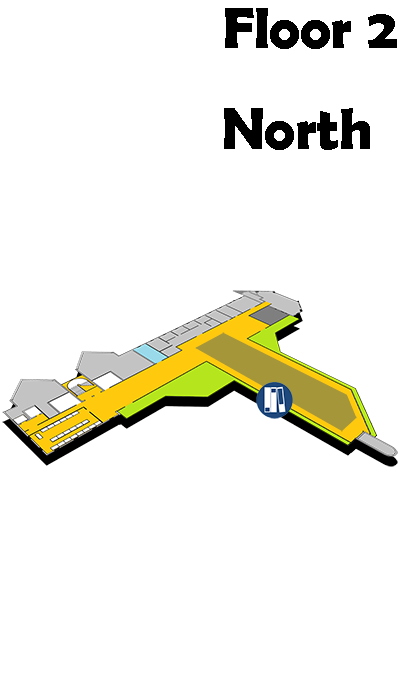
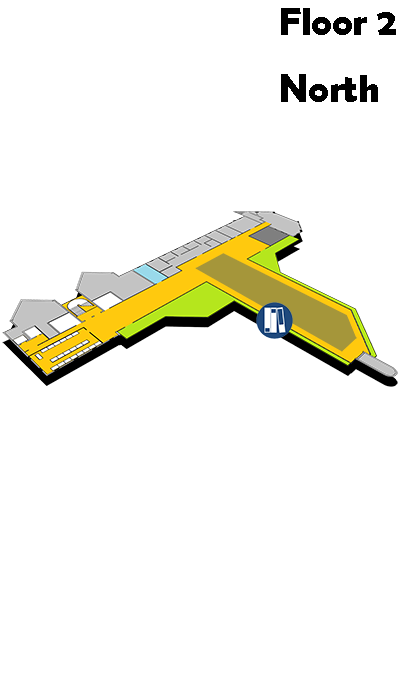
Task evacuation plan update floor images' positon and title scale (make room) design evacuation plan images for all 3 floors and direction. remove go "through all" arrows, these are hidden to use as front end testing. instead, creat evacuation on/off switch. link switch function to home button. pres

Changed region(s): [[0.0, 0.3, 1.0, 0.69], [0.54, 0.0, 0.99, 0.24]]

diff --git a/js/js.js b/js/js.js
@@ -13,6 +13,7 @@ function showHome() {
   hideArwR.style.display = "none";
   var hideArwL = document.getElementById("hideArwL")
   hideArwL.style.display = "none";
+  evacswitchoff()
 }
 
 // Go through all floors
@@ -66,10 +67,28 @@ function mouseOut() {
 // evacuation plan switch on and off button version
 function evacswitchon() {
     document.getElementById("floor1Img").src = "images/evac1L.png";
+    document.getElementById("floor1ImgR").src = "images/evac1R.png";
+    document.getElementById("floor2Img").src = "images/evac2L.png";
+    document.getElementById("floor2ImgR").src = "images/evac2R.png";
+    document.getElementById("floor3Img").src = "images/evac3L.png";
+    document.getElementById("floor3ImgR").src = "images/evac3R.png";
+    var hideEvacOn = document.getElementById("hideEvacOn")
+    hideEvacOn.style.display = "none";
+    var hideEvacOff = document.getElementById("hideEvacOff")
+    hideEvacOff.style.display = "block";
 }
 
 function evacswitchoff() {
     document.getElementById("floor1Img").src = "images/LibFloor1L.png";
+    document.getElementById("floor1ImgR").src = "images/LibFloor1R.png";
+    document.getElementById("floor2Img").src = "images/LibFloor2L.png";
+    document.getElementById("floor2ImgR").src = "images/LibFloor2R.png";
+    document.getElementById("floor3Img").src = "images/LibFloor3L.png";
+    document.getElementById("floor3ImgR").src = "images/LibFloor3R.png";
+    var hideEvacOn = document.getElementById("hideEvacOn")
+    hideEvacOn.style.display = "block";
+    var hideEvacOff = document.getElementById("hideEvacOff")
+    hideEvacOff.style.display = "none";
 }
 
 // Hide Arrow

diff --git a/index.html b/index.html
@@ -53,8 +53,8 @@
         <button class="floorLevel-" onclick="showFloor2()"><img src="images/navL2.png"></button>
         <button class="floorLevel-" onclick="showFloor3()"><img src="images/navL3.png"></button>
         <!--evacuation plan switch-->
-        <button class="floorArrow-" onclick="evacswitchon()"><img src="images/larrowb.png"></button>
-        <button class="floorArrow-" onclick="evacswitchoff()"><img src="images/rarrowb.png"></button>
+        <button id="hideEvacOn" class="floorLevel-" onclick="evacswitchon()"><img src="images/evacoffbtn.png"></button>
+        <button id="hideEvacOff" class="floorLevel-" onclick="evacswitchoff()"><img src="images/evaconbtn.png"></button>
         <!--disabled go through all function on purpose>
         <button class="floorArrow-" onclick="showDivs(-1)"><img src="images/larrowb.png"></button>
         <button class="floorArrow-" onclick="showDivs(1)"><img src="images/rarrowb.png"></button-->
